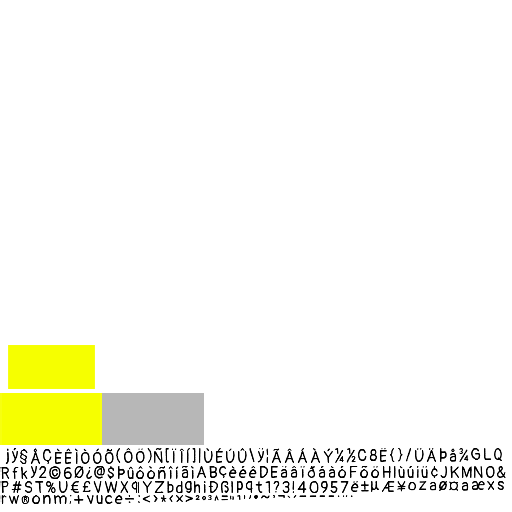
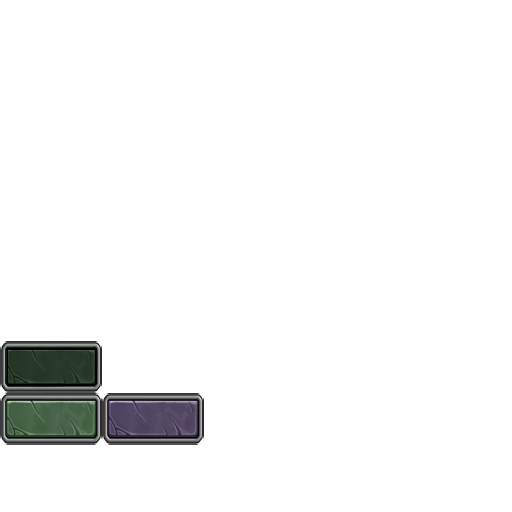
новые текстуры! (я не забыл нажать галочку)

Changed region(s): [[0.0, 0.6562, 1.0, 1.0]]

diff --git a/core/src/Screens/MainGame.java b/core/src/Screens/MainGame.java
@@ -14,8 +14,10 @@ import com.badlogic.gdx.graphics.g2d.freetype.FreeTypeFontGenerator;
 import com.badlogic.gdx.scenes.scene2d.InputEvent;
 import com.badlogic.gdx.scenes.scene2d.InputListener;
 import com.badlogic.gdx.scenes.scene2d.Stage;
+import com.badlogic.gdx.scenes.scene2d.ui.Button;
 import com.badlogic.gdx.scenes.scene2d.ui.Image;
 import com.badlogic.gdx.scenes.scene2d.ui.ImageButton;
+import com.badlogic.gdx.scenes.scene2d.ui.Skin;
 import com.badlogic.gdx.scenes.scene2d.utils.ClickListener;
 import com.badlogic.gdx.scenes.scene2d.utils.TextureRegionDrawable;
 import com.badlogic.gdx.utils.viewport.StretchViewport;
@@ -39,8 +41,11 @@ public class MainGame implements Screen {
     private boolean is_mainButton_pressed;
 
     private Image mainButton;
-    private ImageButton go_back_btn;
-    private ImageButton goTo_shop_btn;
+    private Button go_back_btn;
+    private Button goTo_shop_btn;
+
+    private Skin goback_skin;
+    private Skin shop_skin;
 
     private Texture hpBarbg;
     private Texture hpBar;
@@ -53,7 +58,10 @@ public class MainGame implements Screen {
     private double regen_time;
     private double time;
 
+
     private BitmapFont bitmapFont;
+    private BitmapFont HP_font;
+    private BitmapFont diamond_font;
     private FreeTypeFontGenerator fontGenerator;
     private FreeTypeFontGenerator.FreeTypeFontParameter fontParameter;
 
@@ -63,12 +71,16 @@ public class MainGame implements Screen {
         time = System.currentTimeMillis();
         animationManager = new AnimationManager(zc);
 
+
         fontGenerator = new FreeTypeFontGenerator(Gdx.files.internal("Fonts/Pangolin-Regular.ttf"));
         fontParameter = new FreeTypeFontGenerator.FreeTypeFontParameter();
-        fontParameter.size = 24;
+        fontParameter.size = 40;
         fontParameter.color = Color.WHITE;
         bitmapFont = fontGenerator.generateFont(fontParameter);
-
+        fontParameter.size = 30;
+        HP_font = fontGenerator.generateFont(fontParameter);
+        fontParameter.size = 18;
+        diamond_font = fontGenerator.generateFont(fontParameter);
 
         camera = new OrthographicCamera();
         viewport = new StretchViewport(540, 960, camera);
@@ -82,10 +94,10 @@ public class MainGame implements Screen {
         hpBarBody = new TextureRegion(hpBar, 10, 0, 195, hpBar.getHeight());
         hpBarEnd = new TextureRegion(hpBar, 10 + 195, 0, 10, hpBar.getHeight());
         HP_positionX = 160;
-        HP_positionY = 130;
+        HP_positionY = 240;
 
         mainButton = new Image();
-        mainButton.setPosition(160, 200);
+        mainButton.setPosition(160, 300);
         mainButton.setWidth(217);
         mainButton.setHeight(331);
         mainButton.addListener(new InputListener() {
@@ -108,11 +120,11 @@ public class MainGame implements Screen {
             }
         });
 
-        go_back_btn = new ImageButton(
-                new TextureRegionDrawable(zombieClicker.get_assets().get_asset_manager().get("Buttons/back.png", Texture.class))
-        );
+        goback_skin = zombieClicker.get_assets().get_asset_manager().get("SkinJson/goback_btn.json", Skin.class);
 
-        go_back_btn.setPosition(450, 800);
+        go_back_btn = new Button(goback_skin);
+
+        go_back_btn.setPosition(5, 853);
 
         go_back_btn.addListener(new ClickListener() {
 
@@ -125,11 +137,11 @@ public class MainGame implements Screen {
             }
         });
 
-        goTo_shop_btn = new ImageButton(
-                new TextureRegionDrawable(zombieClicker.get_assets().get_asset_manager().get("Buttons/shop_btn.png", Texture.class))
-        );
+        shop_skin = zombieClicker.get_assets().get_asset_manager().get("SkinJson/shopbtn.json");
 
-        goTo_shop_btn.setPosition(0, 800);
+        goTo_shop_btn = new Button(shop_skin);
+
+        goTo_shop_btn.setPosition(5, 700);
 
         goTo_shop_btn.addListener(new ClickListener() {
 
@@ -190,15 +202,20 @@ public class MainGame implements Screen {
     //ТЕКСТА РАБОТАЮТ ТОЛЬКО В ЭТОМ КЛАССЕ. КАКОГО ХЕРА?
 
     public void draw_text() {
-        bitmapFont.draw(batch, "CLICKS : " + zombieClicker.getNumerics().getGlobal_tap_count(), 100, 50);
-        bitmapFont.draw(batch, "LEVEL : " + zombieClicker.getNumerics().getLevel_count(), 100, 800);
+        zombieClicker.getFontManager().getLayout().setText(HP_font, "" + zombieClicker.getNumerics().getLevel_count());
+        HP_font.draw(batch, "" + zombieClicker.getNumerics().getLevel_count(), 540 / 2 - zombieClicker.getFontManager().getLayout().width / 2, 790);
         if (zombieClicker.getNumerics().get_bossFight()) {
-            bitmapFont.draw(batch, "HP : " + zombieClicker.getNumerics().bigInteger_to_string(zombieClicker.getNumerics().getBoss_health()), 200, 180);
-        } else
-            bitmapFont.draw(batch, "HP : " + zombieClicker.getNumerics().bigInteger_to_string(zombieClicker.getNumerics().getZombie_health()), 200, 180);
-        bitmapFont.draw(batch, "KILLS : " + zombieClicker.getNumerics().getZombie_kills(), 300, 800);
-        bitmapFont.draw(batch, "GOLD : " + zombieClicker.getNumerics().bigInteger_to_string(zombieClicker.getNumerics().getGold()), 300, 700);
-        bitmapFont.draw(batch, "DIAMONDS : " + zombieClicker.getNumerics().getDiamonds(), 300, 600);
+            zombieClicker.getFontManager().getLayout().setText(HP_font, zombieClicker.getNumerics().bigInteger_to_string(zombieClicker.getNumerics().getBoss_health()));
+            HP_font.draw(batch, zombieClicker.getNumerics().bigInteger_to_string(zombieClicker.getNumerics().getBoss_health()), 540 / 2 - zombieClicker.getFontManager().getLayout().width / 2, 293);
+        } else {
+            zombieClicker.getFontManager().getLayout().setText(HP_font, zombieClicker.getNumerics().bigInteger_to_string(zombieClicker.getNumerics().getZombie_health()));
+            HP_font.draw(batch, zombieClicker.getNumerics().bigInteger_to_string(zombieClicker.getNumerics().getZombie_health()), 540 / 2 - zombieClicker.getFontManager().getLayout().width / 2, 293);
+        }
+
+        zombieClicker.getFontManager().getLayout().setText(bitmapFont, zombieClicker.getNumerics().bigInteger_to_string(zombieClicker.getNumerics().getGold()));
+        bitmapFont.draw(batch, zombieClicker.getNumerics().bigInteger_to_string(zombieClicker.getNumerics().getGold()), 540 / 2 - zombieClicker.getFontManager().getLayout().width / 2, 918);
+        zombieClicker.getFontManager().getLayout().setText(diamond_font, "" + zombieClicker.getNumerics().getDiamonds());
+        diamond_font.draw(batch, "" + zombieClicker.getNumerics().getDiamonds(), 540 / 2 - zombieClicker.getFontManager().getLayout().width / 2, 860);
     }
 
     @Override
@@ -275,7 +292,8 @@ public class MainGame implements Screen {
 
     @Override
     public void dispose() {
-        if(fontGenerator != null) fontGenerator.dispose();
+        if (bitmapFont != null) bitmapFont.dispose();
+        if (fontGenerator != null) fontGenerator.dispose();
         zombieClicker.get_assets().dispose_Game_assets();
         if (stage != null) stage.dispose();
         if (batch != null) batch.dispose();

diff --git a/core/src/Screens/Shop.java b/core/src/Screens/Shop.java
@@ -12,6 +12,7 @@ import com.badlogic.gdx.graphics.g2d.SpriteBatch;
 import com.badlogic.gdx.graphics.g2d.freetype.FreeTypeFontGenerator;
 import com.badlogic.gdx.scenes.scene2d.InputEvent;
 import com.badlogic.gdx.scenes.scene2d.Stage;
+import com.badlogic.gdx.scenes.scene2d.ui.Button;
 import com.badlogic.gdx.scenes.scene2d.ui.Image;
 import com.badlogic.gdx.scenes.scene2d.ui.ImageButton;
 import com.badlogic.gdx.scenes.scene2d.ui.Label;
@@ -35,7 +36,7 @@ public class Shop implements Screen {
     private Image ImageBG;
     private ScrollPane scrollPane;
     private Table table;
-    private ImageButton goback_bth;
+    private Button goback_bth;
     private SpriteBatch batch;
     private int item_widht;
     private int items_amount;   //сколько предметов в магазине
@@ -165,6 +166,7 @@ public class Shop implements Screen {
     private Label plus_label11;
 
     private Skin skin1;
+    private Skin goback_skin;
 
     //ВРЕМЕННО
     private BitmapFont bitmapFont;
@@ -185,11 +187,12 @@ public class Shop implements Screen {
         zombieClicker.get_assets().load_assets_for_Shop();
         ImageBG = new Image(zombieClicker.get_assets().get_asset_manager().get("Background/shopbg.png", Texture.class));
         batch = new SpriteBatch();
-        goback_bth = new ImageButton(new TextureRegionDrawable(new Texture("Buttons/back.png")));
         item_widht = 530;
         items_amount = 11;
 
         skin1 = zombieClicker.get_assets().get_asset_manager().get("SkinJson/buybtn.json", Skin.class);
+        goback_skin = zombieClicker.get_assets().get_asset_manager().get("SkinJson/goback_btn.json", Skin.class);
+        goback_bth = new Button(goback_skin);
 
         fontGenerator = new FreeTypeFontGenerator(Gdx.files.internal("Fonts/Pangolin-Regular.ttf"));
         fontParameter = new FreeTypeFontGenerator.FreeTypeFontParameter();
@@ -200,12 +203,12 @@ public class Shop implements Screen {
 
         fontParameter.size = 23;
         font_for_description = fontGenerator.generateFont(fontParameter);
-        style_for_description = new Label.LabelStyle(font_for_description, Color.BLACK);
-        style_for_name = new Label.LabelStyle(bitmapFont, Color.BLACK);
+        style_for_description = new Label.LabelStyle(font_for_description, Color.WHITE);
+        style_for_name = new Label.LabelStyle(bitmapFont, Color.WHITE);
         fontParameter.size = 20;
         font_for_description = fontGenerator.generateFont(fontParameter);
         font_for_plus = fontGenerator.generateFont(fontParameter);
-        style_for_plus = new Label.LabelStyle(font_for_plus, Color.BLACK);
+        style_for_plus = new Label.LabelStyle(font_for_plus, Color.WHITE);
 
 
         name_of_item1 = new Label("Деревянная лопата", style_for_name);
@@ -264,7 +267,7 @@ public class Shop implements Screen {
             }
         });
 
-        goback_bth.setPosition(0, 850);
+        goback_bth.setPosition(35, 755);
 
         b1 = new TextButton("", skin1);
         b2 = new TextButton("", skin1);
@@ -707,8 +710,8 @@ public class Shop implements Screen {
 
 
         scrollPane = new ScrollPane(table);
-        scrollPane.setPosition((540 - item_widht) / 2, 30);
-        scrollPane.setHeight(130 * 6);
+        scrollPane.setPosition((540 - item_widht) / 2, 0);
+        scrollPane.setHeight(140 * 5 - 20);
         scrollPane.setWidth(item_widht);
         scrollPane.setSmoothScrolling(true);
 
@@ -772,7 +775,7 @@ public class Shop implements Screen {
         stage.draw();
 
         batch.begin();
-        bitmapFont.draw(batch, zombieClicker.getNumerics().bigInteger_to_string(zombieClicker.getNumerics().getGold()), 250, 850);
+        bitmapFont.draw(batch, zombieClicker.getNumerics().bigInteger_to_string(zombieClicker.getNumerics().getGold()), 320, 730);
         batch.end();
 
         batch.setProjectionMatrix(camera.combined);

diff --git a/core/src/Managers/FontManager.java b/core/src/Managers/FontManager.java
@@ -6,6 +6,7 @@ import com.badlogic.gdx.assets.loaders.FileHandleResolver;
 import com.badlogic.gdx.assets.loaders.resolvers.InternalFileHandleResolver;
 import com.badlogic.gdx.graphics.Color;
 import com.badlogic.gdx.graphics.g2d.BitmapFont;
+import com.badlogic.gdx.graphics.g2d.GlyphLayout;
 import com.badlogic.gdx.graphics.g2d.SpriteBatch;
 import com.badlogic.gdx.graphics.g2d.freetype.FreeTypeFontGenerator;
 import com.badlogic.gdx.graphics.g2d.freetype.FreeTypeFontGeneratorLoader;
@@ -19,10 +20,12 @@ public class FontManager {
     private FreeTypeFontGenerator fontGenerator;
     private FreeTypeFontGenerator.FreeTypeFontParameter fontParameter;
 
+    private GlyphLayout layout;
 
     public FontManager(final ZombieClicker zc) {
         zombieClicker = zc;
 
+        layout = new GlyphLayout();
         //ПОЧЕМУ НУЛЛ??
 //        fontGenerator = new FreeTypeFontGenerator(Gdx.files.internal("Fonts/Pangolin-Regular.ttf"));
 //        fontParameter = new FreeTypeFontGenerator.FreeTypeFontParameter();
@@ -33,19 +36,21 @@ public class FontManager {
     }
 
     public void draw_text_forGame(SpriteBatch batch) {
-        bitmapFont.draw(batch, "CLICKS : " + zombieClicker.getNumerics().getGlobal_tap_count(), 100, 50);
         bitmapFont.draw(batch, "LEVEL : " + zombieClicker.getNumerics().getLevel_count(), 100, 800);
         if (zombieClicker.getNumerics().get_bossFight()) {
             bitmapFont.draw(batch, "HP : " + zombieClicker.getNumerics().bigInteger_to_string(zombieClicker.getNumerics().getBoss_health()), 200, 180);
         } else
             bitmapFont.draw(batch, "HP : " + zombieClicker.getNumerics().bigInteger_to_string(zombieClicker.getNumerics().getZombie_health()), 200, 180);
-        bitmapFont.draw(batch, "KILLS : " + zombieClicker.getNumerics().getZombie_kills(), 300, 800);
-        bitmapFont.draw(batch, "GOLD : " + zombieClicker.getNumerics().bigInteger_to_string(zombieClicker.getNumerics().getGold()), 300, 700);
+        bitmapFont.draw(batch, "" + zombieClicker.getNumerics().bigInteger_to_string(zombieClicker.getNumerics().getGold()), 300, 700);
         bitmapFont.draw(batch, "DIAMONDS : " + zombieClicker.getNumerics().getDiamonds(), 300, 600);
     }
 
     public void draw_text_forShop(){
 
+    }
+
+    public GlyphLayout getLayout(){
+        return layout;
     }
 
     public void dispose() {

diff --git a/core/src/Managers/Assets.java b/core/src/Managers/Assets.java
@@ -25,7 +25,8 @@ public class Assets {
 
     public void load_assets_for_Game() {
         assetManager.load("Background/gamebg.png", Texture.class);
-        assetManager.load("Buttons/back.png", Texture.class);
+        assetManager.load("SkinJson/goback_btn.json", Skin.class);
+        assetManager.load("SkinJson/shopbtn.json", Skin.class);
         assetManager.load("Buttons/shop_btn.png", Texture.class);
         assetManager.load("Sounds/punch.wav", Sound.class);
         assetManager.load("HP/hp.png", Texture.class);
@@ -42,6 +43,7 @@ public class Assets {
 
     public void load_assets_for_Shop(){
         assetManager.load("SkinJson/buybtn.json", Skin.class);
+        assetManager.load("SkinJson/goback_btn.json", Skin.class);
         assetManager.load("Background/shopbg.png", Texture.class);
         assetManager.update();
         assetManager.finishLoading();
@@ -54,7 +56,8 @@ public class Assets {
     }
 
     public void dispose_Game_assets(){
-        assetManager.unload("Buttons/back.png");
+        assetManager.unload("SkinJson/goback_btn.json");
+        assetManager.unload("SkinJson/shopbtn.json");
         assetManager.unload("Buttons/shop_btn.png");
         assetManager.unload("Background/gamebg.png");
         assetManager.unload("Animations/zombie1.atlas");
@@ -66,6 +69,7 @@ public class Assets {
     }
 
     public void dispose_Shop_assets(){
+        assetManager.unload("SkinJson/goback_btn.json");
         assetManager.unload("Background/shopbg.png");
         assetManager.unload("SkinJson/buybtn.json");
     }

diff --git a/core/src/Numbers/Numerics.java b/core/src/Numbers/Numerics.java
@@ -34,10 +34,10 @@ public class Numerics {
         boss_health = new BigInteger("20");
         max_boss_health = new BigInteger("20");
         global_tap_count = new BigInteger("0");
-        gold = new BigInteger("100000");
+        gold = new BigInteger("0");
         zombie_kills = new BigInteger("0");
         punch_power = new BigInteger("2");
-        zombie_kill_reward = new BigInteger("500");
+        zombie_kill_reward = new BigInteger("50000000");
         last_kills = new BigInteger("0");
         how_fast_passive_damage = 0.1f;
         passive_damage = new BigInteger("0");
